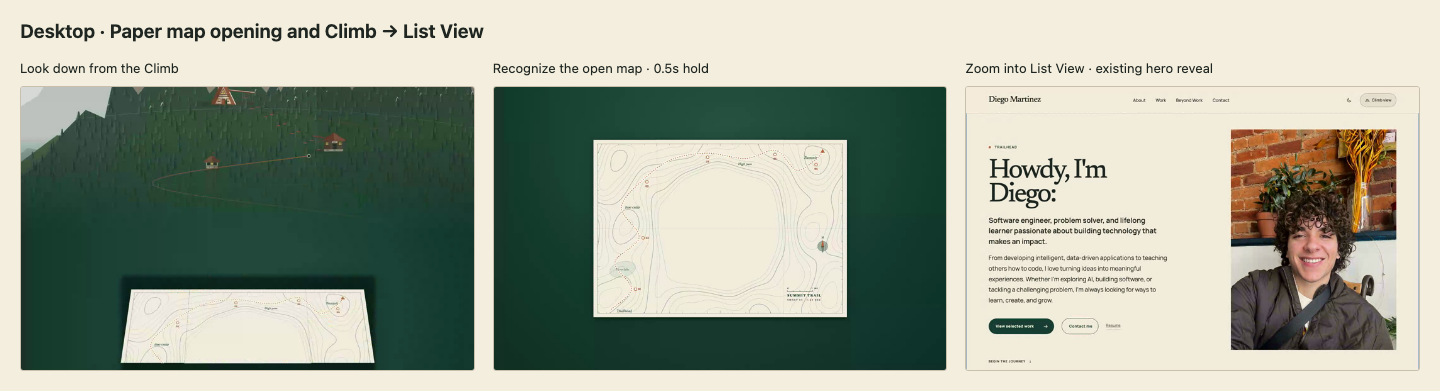
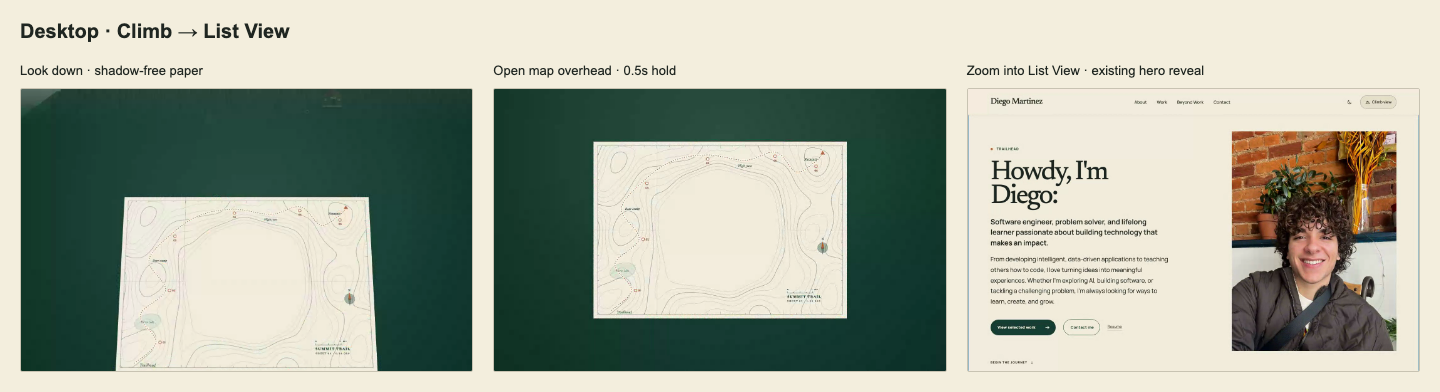
fix: remove map return halo and preserve fragment navigation

diff --git a/components/splash/controller.ts b/components/splash/controller.ts
@@ -1,7 +1,7 @@
 import { mapAssetStyles, mapOverlayMarkup } from "./map/markup";
 import { trailheadIntro } from "../../content/trailhead";
 
-type Options = { rate?: number; failsafe?: boolean; remember?: boolean; allowSeen?: boolean; seekCss?: boolean; onDone?: (skipped: boolean) => void };
+type Options = { rate?: number; failsafe?: boolean; remember?: boolean; allowSeen?: boolean; seekCss?: boolean; preserveFragment?: boolean; onDone?: (skipped: boolean) => void };
 const part = (root: ParentNode, selector: string) => {
   const element = root.querySelector<HTMLElement>(selector);
   if (!element) throw new Error(`Missing map overlay part: ${selector}`);
@@ -156,7 +156,7 @@ function lifecycle(el: HTMLElement, options: Options, onEnd: (skipped: boolean) 
       clearTimeout(failsafe); clearTimeout(inputTask);
       EVENTS.forEach((type) => window.removeEventListener(type, skip, true));
       window.removeEventListener("resize", skip);
-      window.removeEventListener("hashchange", skip);
+      window.removeEventListener("hashchange", navigate);
       window.removeEventListener("pagehide", skip);
       try { motion?.removeEventListener("change", onMotion); } catch { /* Optional preference observation. */ }
       cleanups.forEach((fn) => fn());
@@ -173,7 +173,7 @@ function lifecycle(el: HTMLElement, options: Options, onEnd: (skipped: boolean) 
         if (active) EVENTS.forEach((type) => window.addEventListener(type, skip, { capture: true, passive: true }));
       }, 0);
       window.addEventListener("resize", skip, { passive: true });
-      window.addEventListener("hashchange", skip);
+      window.addEventListener("hashchange", navigate);
       window.addEventListener("pagehide", skip);
       try { motion?.addEventListener("change", onMotion); } catch { /* CSS still responds to the preference. */ }
     },
@@ -198,6 +198,9 @@ function lifecycle(el: HTMLElement, options: Options, onEnd: (skipped: boolean) 
     },
   };
   const skip = () => api.finish(true);
+  // Browser navigation owns its reading destination. Cancelling a view
+  // transition must not run the ordinary dismissal's view-switch callback.
+  const navigate = () => api.finish(true, !options.preserveFragment);
   const onMotion = (event: MediaQueryListEvent) => {
     document.documentElement.dataset.motion = event.matches ? "reduce" : "full";
     skip();
@@ -317,7 +320,7 @@ function toListTransition(el: HTMLElement, switchView: () => void, options: Opti
   const doc = el.ownerDocument;
   let switched = false, landing: SplashController | null = null, frame = 0;
   const doSwitch = () => { if (!switched) { switched = true; switchView(); } };
-  const life = lifecycle(el, options, doSwitch);
+  const life = lifecycle(el, { ...options, preserveFragment: true }, doSwitch);
   life.t0 = Number(doc.timeline.currentTime);
   const screenTracks: Animation[] = [];
   let clock: Animation | undefined;
@@ -408,7 +411,8 @@ export function toClimbTransition(el: HTMLElement, switchView: () => void, optio
   if (reduced) {
     // Opacity only: the Climb fades in over the page background.
     doSwitch();
-    const life = lifecycle(el, options, () => el.remove());
+    const life = lifecycle(el, { ...options, preserveFragment: true }, () => {});
+    life.cleanup(() => el.remove());
     life.review(undefined, false);
     life.t0 = Number(doc.timeline.currentTime);
     life.add(doc.querySelector<HTMLElement>(".climb-enhancement"), [{ opacity: 0 }, { opacity: 1 }], { duration: 320, easing: "ease-out" })
@@ -427,7 +431,8 @@ export function toClimbTransition(el: HTMLElement, switchView: () => void, optio
     a.pause();
     a.currentTime = /^splash-world-off/.test(n) ? 0 : /^splash-(print-fade)/.test(n) ? 0 : 3550;
   }
-  const life = lifecycle(el, options, () => { doSwitch(); el.remove(); });
+  const life = lifecycle(el, { ...options, preserveFragment: true }, doSwitch);
+  life.cleanup(() => el.remove());
   life.review(undefined, false);
   const { add } = life;
   life.t0 = Number(doc.timeline.currentTime);

diff --git a/tests/list-transition.spec.ts b/tests/list-transition.spec.ts
@@ -24,6 +24,16 @@ for (const viewport of [{ width: 1440, height: 900 }, { width: 390, height: 844 
       }));
       expect(await open()).toEqual(Array(6).fill([1, 1, 1]));
       await page.screenshot({ path: info.outputPath("01-looking-down.png") });
+      await seekIntro(page, 650, ".splash--list");
+      const edge = (await overlay.locator(".splash-map").boundingBox())!;
+      const halo = { x: Math.floor(edge.x + edge.width / 4), y: Math.floor(edge.y - 20), width: Math.floor(edge.width / 2), height: 12 };
+      const withEffects = await page.screenshot();
+      // Compare actual rendered pixels with the table-shadow layers disabled:
+      // this return must already paint the same frame without their halo.
+      const noShadows = await page.addStyleTag({ content: ".splash--list .splash-shadow { display: none !important; }" });
+      const withoutEffects = await page.screenshot();
+      await noShadows.evaluate(el => el.parentNode?.removeChild(el));
+      expect((await imageDifference(page, withEffects, withoutEffects, halo)).max).toBeLessThanOrEqual(1);
       await seekIntro(page, LIST.tilt, ".splash--list");
       await expect(page.locator(".climb-list")).toBeVisible();
       const map = overlay.locator(".splash-map"), camera = overlay.locator(".splash-camera");
@@ -114,3 +124,25 @@ test("List return restores the page on resize during zoom", async ({ page }) => 
   await expect(page.locator(".splash--list")).toHaveCount(0);
   await expect(page.locator("#trailhead-title")).toHaveCSS("opacity", "1");
 });
+
+for (const width of [1440, 390]) {
+  for (const time of [400, 2100]) {
+    test(`fragment navigation preserves the Case Study during List return at ${time}ms and ${width}px`, async ({ page }) => {
+      await page.setViewportSize({ width, height: 844 });
+      await openClimb(page);
+      await holdNextTransition(page, ".splash--list");
+      await page.getByRole("button", { name: "List view", exact: true }).click();
+      await seekIntro(page, time, ".splash--list");
+      await page.evaluate(() => { location.hash = "case-veritas"; });
+      await expect(page).toHaveURL(/#case-veritas$/);
+      await expect(page.locator(".splash--list")).toHaveCount(0);
+      await expect(page.locator(".climb-list")).toBeVisible();
+      await expect(page.locator("#case-veritas")).toBeVisible();
+      await expect(page.locator("#case-veritas")).toBeFocused();
+      await expect(page.locator("#case-veritas")).toBeInViewport();
+      await expect(page.locator("#trailhead-title")).toHaveCSS("opacity", "1");
+      await expect(page.getByRole("banner")).toHaveCSS("opacity", "1");
+      await expect(page.locator(".climb-stage")).toHaveCSS("translate", "none");
+    });
+  }
+}

diff --git a/tests/climb-transition.spec.ts b/tests/climb-transition.spec.ts
@@ -119,3 +119,26 @@ test("relaxing reduced motion before opting into Climb restores the full map cho
   await page.keyboard.press("Escape");
   await expect(page.locator(".splash--climb")).toHaveCount(0);
 });
+
+for (const width of [1440, 390]) {
+  for (const time of [100, 1400]) {
+    test(`browser Back preserves the reading destination during Climb entry at ${time}ms and ${width}px`, async ({ page }) => {
+      await page.setViewportSize({ width, height: 844 });
+      await page.goto("./#work");
+      await expect(page.getByRole("button", { name: "Climb view", exact: true })).toBeVisible();
+      await page.evaluate(() => { location.hash = "about"; });
+      await expect(page).toHaveURL(/#about$/);
+      await holdNextTransition(page);
+      await page.getByRole("button", { name: "Climb view", exact: true }).click();
+      await seekIntro(page, time, ".splash--climb");
+      await page.goBack();
+      await expect(page).toHaveURL(/#work$/);
+      await expect(page.locator(".splash--climb")).toHaveCount(0);
+      await expect(page.locator(".climb-list")).toBeVisible();
+      await expect(page.locator("#climb")).toBeHidden();
+      await expect(page.locator("#work")).toBeFocused();
+      await expect(page.locator("#work")).toBeInViewport();
+      await expect(page.locator(".climb-stage")).toHaveCSS("translate", "none");
+    });
+  }
+}

diff --git a/components/climb/Climb.tsx b/components/climb/Climb.tsx
@@ -218,14 +218,23 @@ export function Climb({ children, header, mountain, cards, summaries, cases }: {
       if (preference.matches) { viewTransition.current?.skip(); revealList(); }
     });
     function hashChange() {
-      if (!listTarget()) return;
+      const target = listTarget();
+      if (!target) return;
+      // Cancel before revealing the reading destination: skip() would finish
+      // the old transition and could hide List View or overwrite this hash.
+      viewTransition.current?.dispose();
+      viewTransition.current = null;
       if (activeClimb.current) {
         lastClimbScroll.current = window.scrollY;
-        focusList.current = true;
       }
-      setListMode(true);
-      setSelection(null);
+      focusList.current = false;
       pendingFocus.current = null;
+      flushSync(() => { setListMode(true); setSelection(null); });
+      // A cancelled entry can leave List View already visible, so its view
+      // effect need not rerun. Restore the fragment's scroll and focus here.
+      target.scrollIntoView({ behavior: "instant" });
+      if (!target.matches("a, button, [tabindex]")) target.tabIndex = -1;
+      target.focus({ preventScroll: true });
     }
     const cleanup = sceneCleanup(failScene,
       () => cancelAnimationFrame(raf),

diff --git a/tests/climb-adaptive.spec.ts b/tests/climb-adaptive.spec.ts
@@ -613,11 +613,12 @@ test("reduced-motion List View keeps canonical content and accessible reading su
   }
   for (const colorScheme of ["light", "dark"] as const) {
     await page.emulateMedia({ colorScheme });
-    await expect(page.locator(".climb-list")).toHaveCSS("color", "rgb(236, 230, 210)");
-    await expect(page.locator(".site-header")).toHaveCSS("color", "rgb(236, 230, 210)");
+    await expect(page.locator("html")).toHaveAttribute("data-theme", "light");
+    await expect(page.locator(".climb-list")).toHaveCSS("color", "rgb(31, 38, 33)");
+    await expect(page.locator(".site-header")).toHaveCSS("color", "rgb(31, 38, 33)");
     // Browser appearance changes must leave inherited reading colors intact.
     for (const text of await page.locator(".site-header a, .site-header span").all()) {
-      await expect(text).toHaveCSS("color", "rgb(236, 230, 210)");
+      await expect(text).toHaveCSS("color", "rgb(31, 38, 33)");
     }
     expect((await new AxeBuilder({ page }).withTags(["wcag2a", "wcag2aa", "wcag21aa", "wcag22aa"]).analyze()).violations).toEqual([]);
   }

diff --git a/tests/climb-panel.spec.ts b/tests/climb-panel.spec.ts
@@ -7,7 +7,7 @@ import { waypoints } from "../content/waypoints";
 async function expectAccessiblePanel(page: Page) {
   // The nonmodal panel leaves the mountain usable. Climb/List View tests audit
   // that background separately; these repeated scans target the reading surface.
-  const textColor = "rgb(236, 230, 210)";
+  const textColor = "rgb(31, 38, 33)"; // First visits use Light, independent of device appearance.
   // WebKit can update the panel background before its inherited text colors.
   for (const text of await page.locator("#panel-title, .climb-panel .waypoint-story h3, .climb-panel .waypoint-summary, .climb-panel .waypoint-purpose, .climb-panel .waypoint-attribution dd").all())
     await expect(text).toHaveCSS("color", textColor);

diff --git a/components/splash/splash.css b/components/splash/splash.css
@@ -35,6 +35,9 @@ html[data-splash] .splash.splash--skipped { animation: none; display: none; }
 /* Climb View transition reuses this overlay under the header; JS drives it. */
 html .splash.splash--climb { animation: none; display: block; z-index: 59; }
 html .splash.splash--list { display: block; z-index: 59; }
+/* On the look-down return the open sheet is beneath the camera. The opening's
+   two flat table shadows would float behind its tilted paper as dark halos. */
+.splash--list .splash-shadow { display: none; }
 
 /* ---------- World: table, camera, rig ---------- */
 .splash-world { animation: splash-world-off 6400ms linear both; inset: 0; position: absolute; }

diff --git a/tests/climb-behavior.spec.ts b/tests/climb-behavior.spec.ts
@@ -156,7 +156,7 @@ for (const width of [390, 1440]) {
     test(`${journeyStops[index].label} card keeps its dark-green appearance at ${width}px with either browser preference`, async ({ page }) => {
       await page.setViewportSize({ width, height: 844 });
       await page.emulateMedia({ reducedMotion: "reduce", colorScheme: "light" });
-      await openClimb(page);
+      await openClimb(page, "dark");
       await expect(page.locator("#climb")).toBeVisible();
       await scrollToStop(page, index);
       const card = page.locator(`[data-card="${index}"]`);

diff --git a/docs/handoff/map-opening-implementation.md b/docs/handoff/map-opening-implementation.md
@@ -34,11 +34,17 @@ The canonical greeting and other homepage content continue to come from `content
 
 Selecting List View from the illustrated Climb creates a namespaced copy of the same map, with all fold animations held at their fully open pose. The current mountain translates upward as the map and surrounding surface rise from below. The map tilts from 58° to a directly overhead view over 1100ms, holds at scale 1 for 500ms, then zooms into its cream center from 1600–2600ms.
 
+The return hides both `.splash-shadow--soft` and `.splash-shadow--contact` through a `.splash--list` rule. These are separate flat, blurred table layers in the shared artwork; while the paper tilted, their unrotated rectangles produced the dark halo above and behind it. The paper's cream edge seal remains in place. The return's tilt, overhead hold and zoom timings are unchanged.
+
 The return uses the actual `startSplash` camera/typography/reveal controller, rather than duplicating its timing or heading swap. Its screen-space CSS clock starts at opening time 1820ms; the physical fold clock stays frozen. At 1100ms, opaque map surroundings cover the scene while React switches to List View, scrolls to its landing hero and restores focus to `#list-view`. The opening's existing zoom, contour fade, greeting ink, selected-theme paper handoff and hero reveal then continue on that shared clock. The complete return lasts 4580ms. Cream paper remains opaque throughout the map and zoom; a saved Dark theme uses the existing dusk handoff into the Dark reading surface.
 
 Reduced motion switches directly to List View with no map overlay or return animation. Input, resize, hash navigation and page exit can dismiss the sequence; both the tilt controller and the reused hero controller dispose their animations and listeners together. The last Climb scroll position remains available for a later opt-in. Automatic scene recovery and reading-link navigation keep their direct recovery paths.
 
+Fragment navigation has its own cancellation path in both view transitions. It disposes the animation without running the ordinary dismissal's destination callback. The Climb reading-navigation handler reveals, scrolls to and focuses the requested fragment, including when a cancelled Climb entry leaves List View already visible. Cleanup removes the temporary overlay on cancellation as well as completion. This addresses [PR #35's navigation review](https://github.com/FastMartini/portfolio/pull/35#discussion_r4578033478), including browser Back before the 380ms entry switch and Case Study navigation before the 1100ms return switch.
+
 `tests/list-transition.spec.ts` checks desktop and phone layouts in both themes, the exact half-second overhead hold, constant open panel transforms, zoom coverage, pixel-aligned semantic heading swap, focus, native completion, reduced motion, dismissal and resize cleanup. It also records uninterrupted desktop and phone returns. All 11 return cases passed in Chromium and all 11 passed in WebKit, with six additional WebKit checks covering the original intro heading handoff and List-to-Climb transition. Production export, typecheck, lint and whitespace checks passed. Uninterrupted desktop, phone and saved-Dark desktop returns were replayed and inspected. Copies are available in `test-results/climb-to-list-desktop.webm`, `test-results/climb-to-list-phone.webm` and `test-results/climb-to-list-desktop-dark.webm`.
+
+The PR #35 follow-up adds rendered-pixel comparison in the halo band above the tilted map, plus desktop/phone fragment-navigation cases before and after each view-switch cue. Restoring the old shadow changes the tested band by 31 color levels; the fixed return matches the shadow-disabled frame. Native desktop and phone recordings were inspected frame by frame at 40ms intervals through the look-down and zoom handoff, with updated review storyboards in `map-opening-review/`. All 58 transition cases and 16 related theme/accessibility cases passed across the Chromium and WebKit verification runs. Production export, typecheck, lint and whitespace checks passed. Older accessibility checks now assert the Light-first reading palette, and Dark-specific card checks select Dark explicitly.
 
 ## Artwork and regeneration
 
